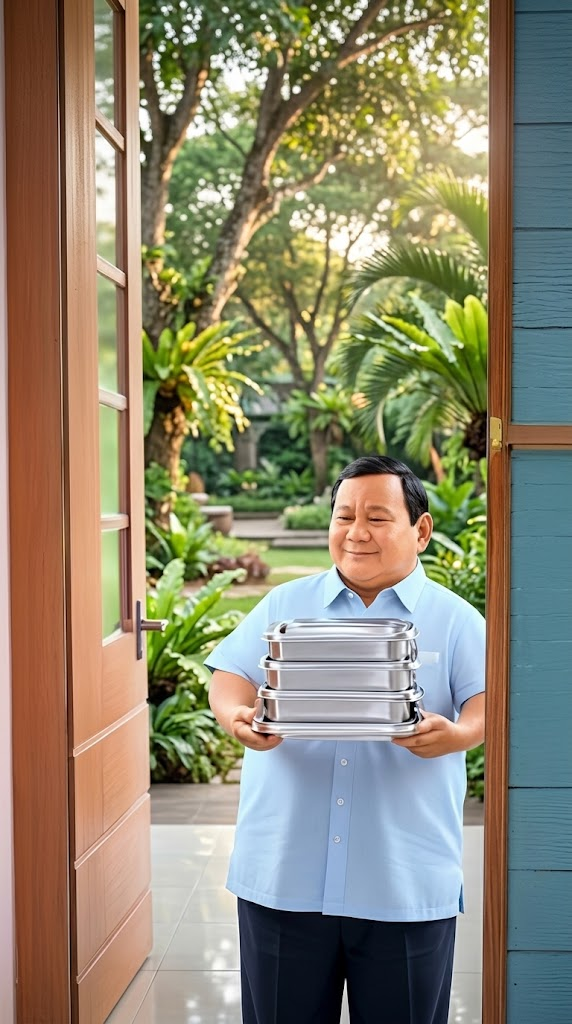
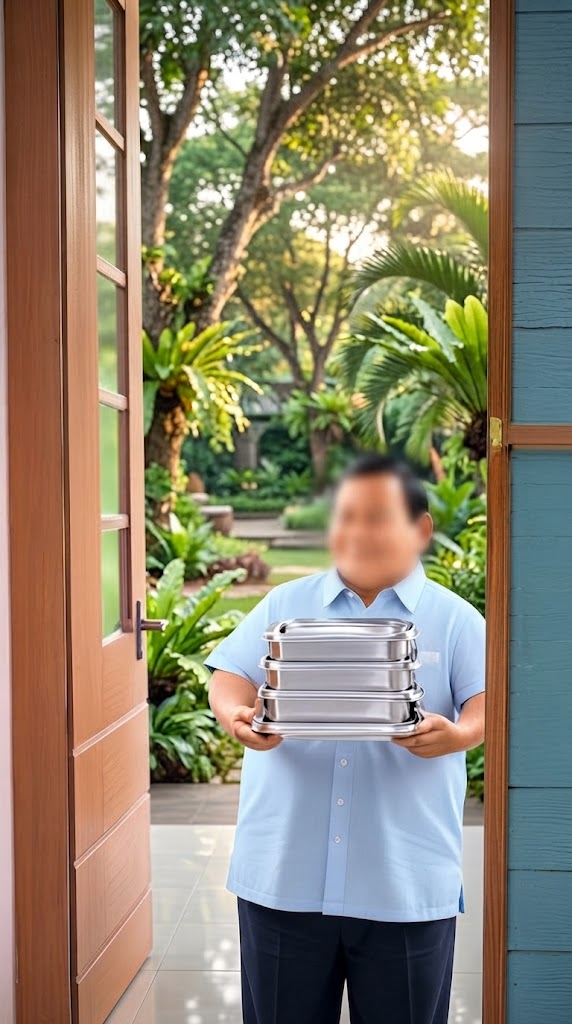
di blur wajahnya

diff --git a/lib/tugas14/views/home.dart b/lib/tugas14/views/home.dart
@@ -94,19 +94,22 @@ class _RandomEmbegeState extends State<RandomEmbege> {
               }
 
               if (!snapshot.hasData || (snapshot.data!.meals).isEmpty) {
-                return Center(
-                  child: Column(
-                    mainAxisAlignment: .center,
-                    children: [
-                      Text(
-                        'Menu MBG apa ya hari ini? 🤔',
-                        style: TextStyle(
-                          color: const Color.fromARGB(255, 255, 255, 255),
-                          fontSize: 22,
+                return Padding(
+                  padding: const EdgeInsets.all(30.0),
+                  child: Center(
+                    child: Column(
+                      mainAxisAlignment: .center,
+                      children: [
+                        Text(
+                          'Menu MBG apa ya hari ini? 🤔',
+                          style: TextStyle(
+                            color: const Color.fromARGB(255, 255, 255, 255),
+                            fontSize: 22,
+                          ),
                         ),
-                      ),
-                      ButtonSearchMbg(onPressed: () => _gachaMBG()),
-                    ],
+                        ButtonSearchMbg(onPressed: () => _gachaMBG()),
+                      ],
+                    ),
                   ),
                 );
               }
